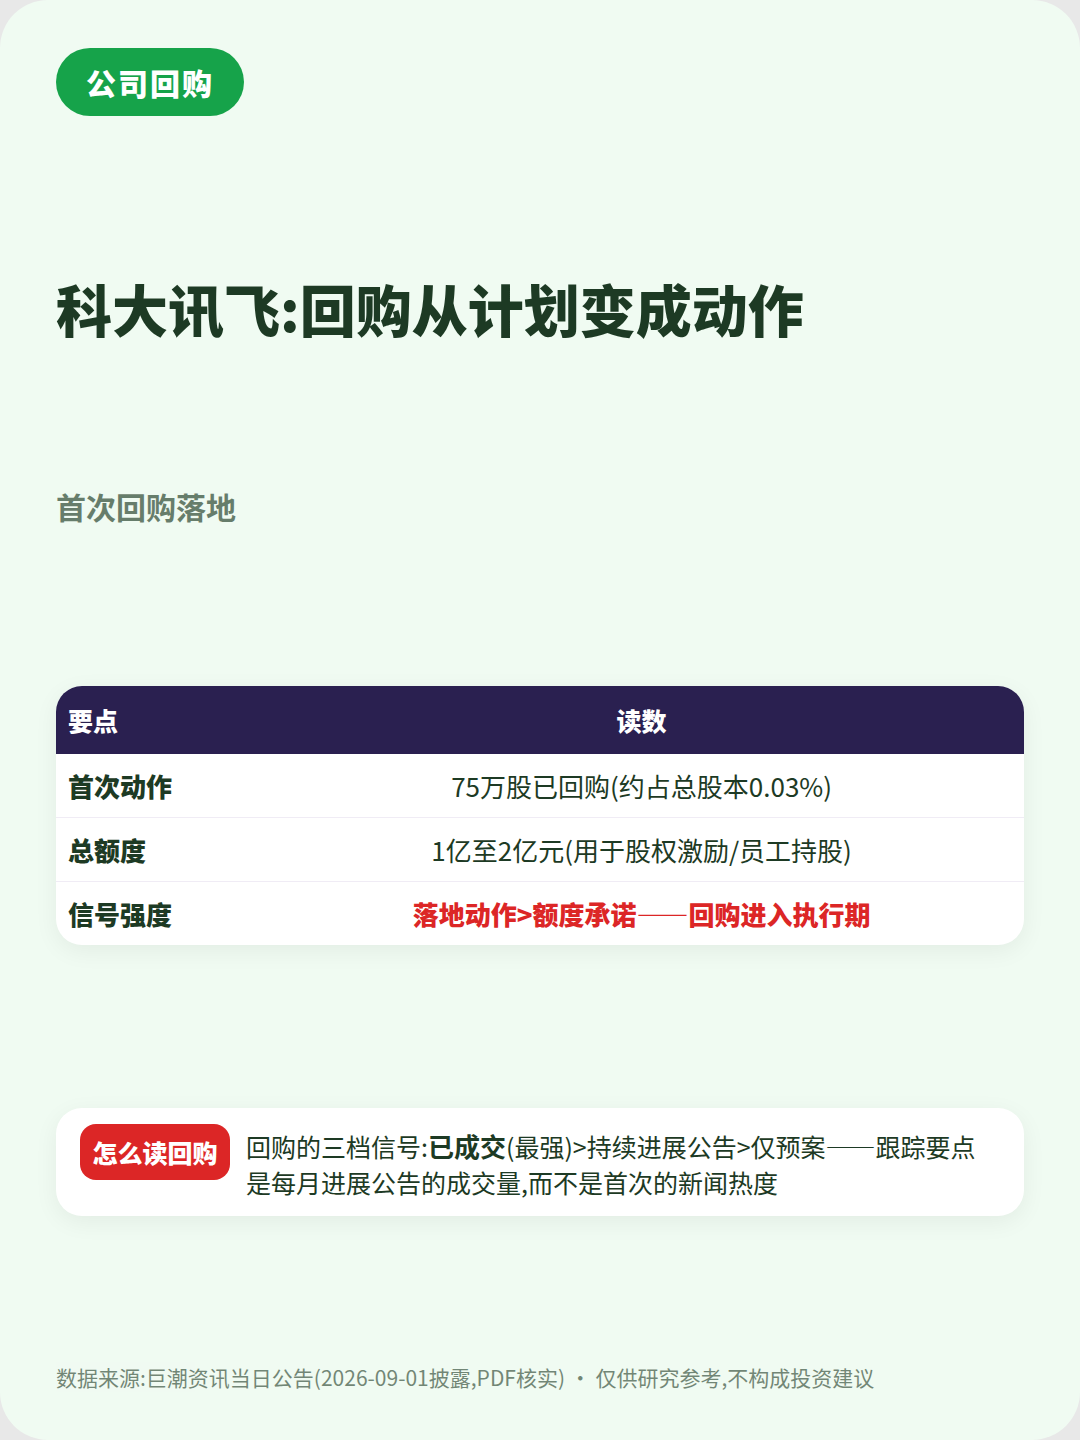
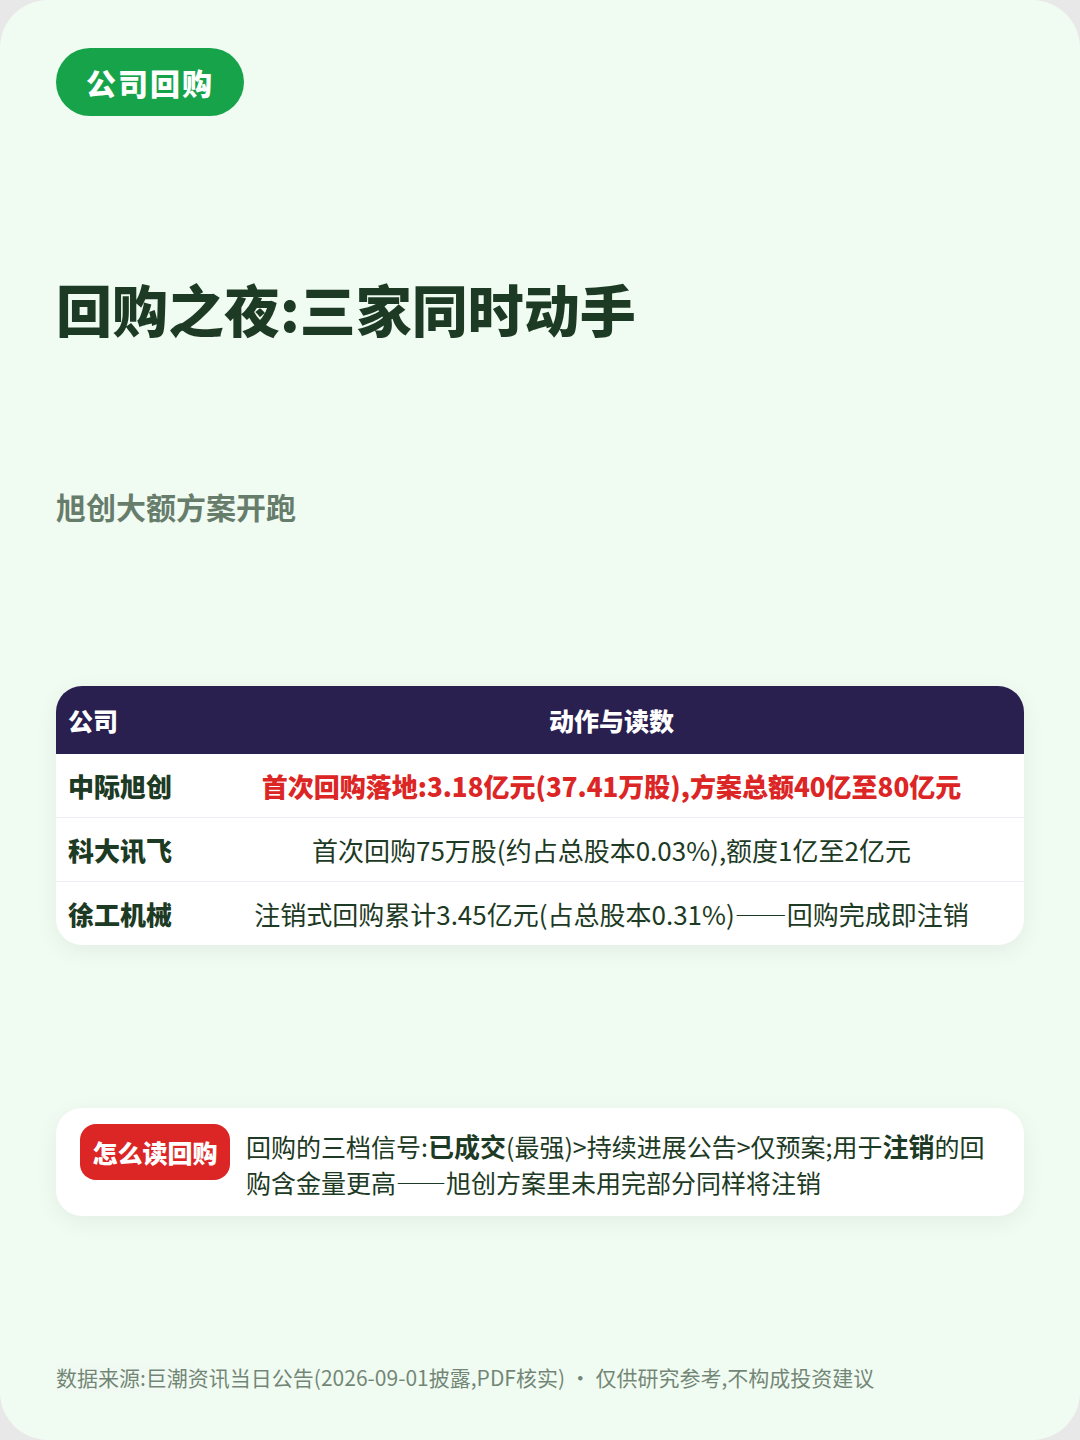
feat(cardgen): 今日公告公司行为v2晚间版——旭创40-80亿首次回购+徐工注销式+概伦重组落地+九州通优先股+全市场密度小结(1350份/121家/22家/7家);四闸过+5/5目检+入发稿池#58

diff --git a/docs/小红书卡片/未发布/今日公告公司行为/output/cards.html b/docs/小红书卡片/未发布/今日公告公司行为/output/cards.html
@@ -49,33 +49,33 @@
   .nb .k { font-size:25px; opacity:.85; margin-top:6px; }
 </style><style class='cardgen-fill'>.card{justify-content:space-between;}.card>.foot{margin-top:0 !important;}</style></head><body><div class="card card3" id="card1">
 <span class="tag-top" style="background:#ff2442;">公告日报 · 公司行为篇</span>
-<h1>今天的三份公告<br>公司用钱在投票🗳</h1>
+<h1>今天的公告速览<br>公司用钱在投票🗳</h1>
 <div class="sub" style="margin-top:24px;">回购·定增·收购<br>动作比表态诚实</div>
-<div class="num-badge"><div class="nb"><div class="v">2亿元</div><div class="k">讯飞回购额度上限(元)</div></div><div class="nb"><div class="v">50亿</div><div class="k">国际复材定增上限</div></div><div class="nb"><div class="v">75万股</div><div class="k">讯飞首次已回购(股)</div></div></div>
+<div class="num-badge"><div class="nb"><div class="v">80亿元</div><div class="k">旭创回购方案上限</div></div><div class="nb"><div class="v">50亿</div><div class="k">国际复材定增上限</div></div><div class="nb"><div class="v">1350份</div><div class="k">今日全市场公告</div></div></div>
 <div style="margin-top:30px;"><div class="quote" style="background:rgba(255,255,255,.14);color:inherit;border-left-color:#ffd400;font-size:30px;">"<span style='color:#ffd400'>公告日报的正确打开方式</span>——不看公司说了什么,看公司拿真金白银做了什么"</div></div>
 <div class="tags">#公告解读 #回购 #定增 #收购 #研究方法</div><div class="foot">数据来源:巨潮资讯当日公告(2026-09-01披露,PDF核实) · 仅供研究参考,不构成投资建议</div></div><div class="card card5" id="card2">
 <span class="tag-top" style="background:#16a34a;">公司回购</span>
-<h2 class="title" style="margin-top:24px;">科大讯飞:回购从计划变成动作</h2>
-<div class="subtitle">首次回购落地</div>
-<table><tr><th style=text-align:left>要点</th><th>读数</th></tr><tr><td class="l">首次动作</td><td class="">75万股已回购(约占总股本0.03%)</td></tr><tr><td class="l">总额度</td><td class="">1亿至2亿元(用于股权激励/员工持股)</td></tr><tr><td class="l">信号强度</td><td class="up">落地动作>额度承诺——回购进入执行期</td></tr></table>
-<div style="margin-top:30px;"><div class="kbox"><div class="kdate" style="background:#dc2626;">怎么读回购</div><div class="ktext">回购的三档信号:<b>已成交</b>(最强)>持续进展公告>仅预案——跟踪要点是每月进展公告的成交量,而不是首次的新闻热度</div></div></div>
+<h2 class="title" style="margin-top:24px;">回购之夜:三家同时动手</h2>
+<div class="subtitle">旭创大额方案开跑</div>
+<table><tr><th style=text-align:left>公司</th><th>动作与读数</th></tr><tr><td class="l">中际旭创</td><td class="up">首次回购落地:3.18亿元(37.41万股),方案总额40亿至80亿元</td></tr><tr><td class="l">科大讯飞</td><td class="">首次回购75万股(约占总股本0.03%),额度1亿至2亿元</td></tr><tr><td class="l">徐工机械</td><td class="">注销式回购累计3.45亿元(占总股本0.31%)——回购完成即注销</td></tr></table>
+<div style="margin-top:30px;"><div class="kbox"><div class="kdate" style="background:#dc2626;">怎么读回购</div><div class="ktext">回购的三档信号:<b>已成交</b>(最强)>持续进展公告>仅预案;用于<b>注销</b>的回购含金量更高——旭创方案里未用完部分同样将注销</div></div></div>
 <div class="foot">数据来源:巨潮资讯当日公告(2026-09-01披露,PDF核实) · 仅供研究参考,不构成投资建议</div></div><div class="card card3" id="card3">
 <span class="tag-top" style="background:#2563eb;">大额定增</span>
 <h2 class="title" style="margin-top:24px;">国际复材:50亿加码电子布</h2>
 <div class="subtitle">上游材料的一体化重注</div>
-<table><tr><th style=text-align:left>要点</th><th>读数</th></tr><tr><td class="l">募资上限</td><td class="">50亿元(向特定对象发行)</td></tr><tr><td class="l">投向</td><td class="up">LDK一代及二代电子布产能2513万米/年(纱+布一体化)</td></tr><tr><td class="l">背景</td><td class="">原3600万米项目变更调整,单米投资强度大增</td></tr></table>
+<table><tr><th style=text-align:left>要点</th><th>读数</th></tr><tr><td class="l">募资上限</td><td class="">50亿元(向特定对象发行)</td></tr><tr><td class="l">投向</td><td class="up">LDK一代及二代电子布产能2513万米/年(纱+布一体化)</td></tr><tr><td class="l">背景</td><td class="">原3600万米项目变更调整,单米投资强度大增</td></tr><tr><td class="l">同步</td><td class="">九州通披露优先股股票预案——A股罕见的融资工具选择</td></tr></table>
 <div style="margin-top:30px;"><div class="kbox"><div class="kdate" style="background:#c2410c;">怎么读定增</div><div class="ktext">定增的关键不是金额而是<b>投向与时机</b>——在行业高景气期加码上游产能,是周期第二幕的典型信号(详见昨日深度解读篇)</div></div></div>
 <div class="foot">数据来源:巨潮资讯当日公告(2026-09-01披露,PDF核实) · 仅供研究参考,不构成投资建议</div></div><div class="card card4" id="card4">
 <span class="tag-top" style="background:#dc2626;">资产收购</span>
-<h2 class="title" style="margin-top:24px;">香山股份:收购+停牌</h2>
-<div class="subtitle">重大资产重组的标准开场</div>
-<table><tr><th style=text-align:left>要点</th><th>读数</th></tr><tr><td class="l">动作</td><td class="">收购武珞智慧(收购报告书已披露,股票停牌)</td></tr><tr><td class="l">类型</td><td class="">发行股份+现金支付——典型的重大资产重组</td></tr><tr><td class="l">观察</td><td class="">复牌节奏与作价是后续两大看点(时间以交易所安排为准)</td></tr></table>
+<h2 class="title" style="margin-top:24px;">收购:香山停牌,概伦落地</h2>
+<div class="subtitle">重大资产重组的一天</div>
+<table><tr><th style=text-align:left>公司</th><th>读法</th></tr><tr><td class="l">香山股份</td><td class="">收购武珞智慧(报告书已披露,股票停牌)——复牌节奏与作价是两大看点</td></tr><tr><td class="l">支付结构</td><td class="">发行股份+现金支付——典型的重大资产重组开场</td></tr><tr><td class="l">概伦电子</td><td class="">发行股份购买资产+配套募资完成(发行情况报告书披露)</td></tr><tr><td class="l">贵州燃气</td><td class="">重组文件同日密集披露——同一事件的多份配套公告,是重组推进的信号</td></tr></table>
 <div style="margin-top:30px;"><div class="kbox"><div class="kdate" style="background:#dc2626;">怎么读收购</div><div class="ktext">收购停牌的三问:<b>被收购公司做什么/作价多少倍/股份支付比例</b>——复牌公告里这三个数字决定故事成色</div></div></div>
 <div class="foot">数据来源:巨潮资讯当日公告(2026-09-01披露,PDF核实) · 仅供研究参考,不构成投资建议</div></div><div class="card card6" id="card5">
 <span class="tag-top" style="background:#0f172a;">一句话收束</span>
 <h2 class="title" style="margin-top:24px;">三类公告</h2>
 <div class="subtitle">三种公司行为语言</div>
-<div class="row"><div class="desc"><b>回购</b> → 公司认为股价低于内在价值(尤其是用于注销的回购)</div></div><div class="row"><div class="desc"><b>定增</b> → 管理层对投向的产业判断,读投向比读金额重要</div></div><div class="row"><div class="desc"><b>收购</b> → 外延扩张的野心与风险同在,作价是灵魂</div></div>
+<div class="row"><div class="desc"><b>回购</b> → 公司认为股价低于内在价值(尤其是用于注销的回购)</div></div><div class="row"><div class="desc"><b>定增</b> → 管理层对投向的产业判断,读投向比读金额重要</div></div><div class="row"><div class="desc"><b>收购</b> → 外延扩张的野心与风险同在,作价是灵魂</div></div><div class="row"><div class="desc"><b>今日密度</b> → 全市场公告1350份:回购121家/定增22家/收购重组7家——动作密度本身就是情绪温度计</div></div>
 <div style="margin-top:14px;"><div class="kbox"><div class="kdate" style="background:#2563eb;">定位</div><div class="ktext">本栏目每天从公告里挑信号最强的公司行为——搬运给人信息,我们给人判断框架</div></div></div>
 <div style="margin-top:8px;"><div class="quote" style="background:rgba(124,58,237,.10);color:#2e2440;border-left-color:#ffd400;font-size:30px;">公告日报的价值不在「今天发生了什么」,在<b>「哪个动作的信号强度最高」</b>——排序就是观点</div></div>
 <div class="tags">#公告日报 #回购 #定增 #收购 #研究方法</div><div class="foot">数据来源:巨潮资讯当日公告(2026-09-01,AI辅助整理) · 仅供研究参考,不构成投资建议。市场有风险,投资需谨慎。</div></div></body></html>
